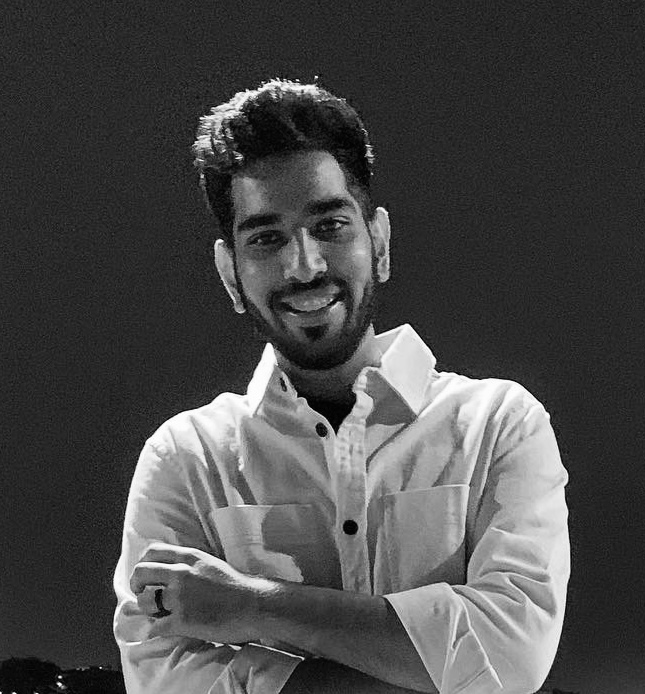
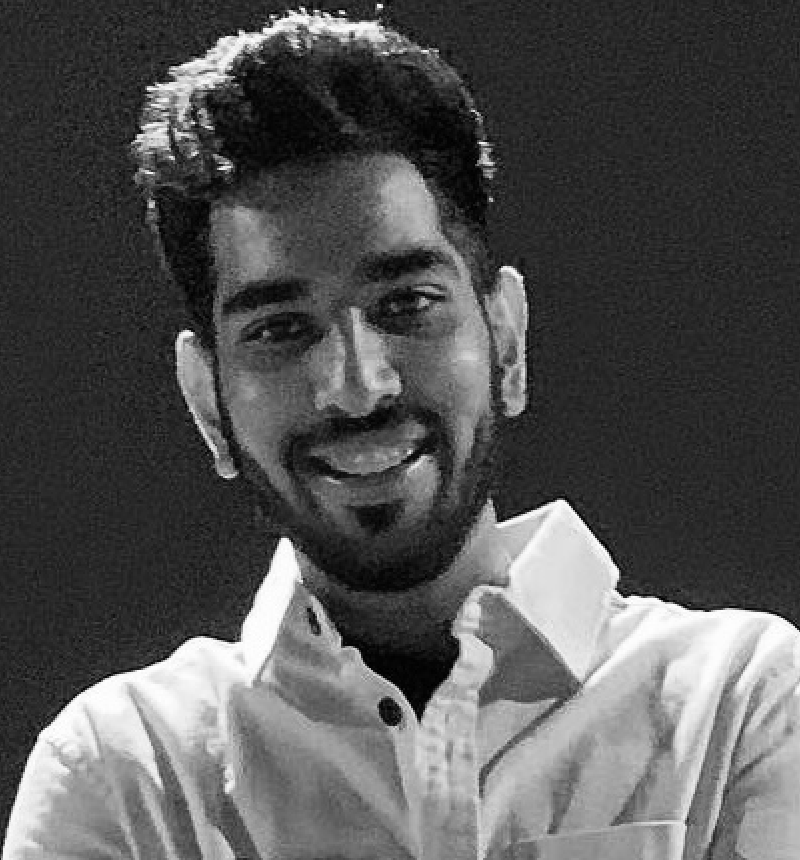
Stuck in the dimentions of the background image

diff --git a/main.py b/main.py
@@ -14,6 +14,8 @@ firebase_admin.initialize_app(cred, {
     'storageBucket':'realtimeattendancesystem-40b3a.appspot.com'
 })
 
+bucket = storage.bucket()
+
 cap = cv2.VideoCapture(0)
 cap.set(3, 640)
 cap.set(4, 480)
@@ -41,6 +43,7 @@ print("Encoding File Loaded")
 modeType = 0
 counter = 0
 id = -1
+imgStudent = []
 
 while True:
     success, img = cap.read()
@@ -57,15 +60,10 @@ while True:
     for encodeFace, faceLoc in zip(encodeCurFrame, faceCurFrame):
         matches = face_recognition.compare_faces(encodeListKnown, encodeFace)
         faceDis = face_recognition.face_distance(encodeListKnown, encodeFace)
-        # print("matches", matches)
-        # print("faceDis", faceDis)
 
         matchIndex = np.argmin(faceDis)
-        # print("Match Index", matchIndex)
-        # print(studentIds[matchIndex])
 
         if matches[matchIndex]:
-            # print("Known Face Detected")
             y1, x2, y2, x1 = faceLoc
             y1, x2, y2, x1 = y1*4, x2*4, y2*4, x1*4
             bbox = 55+x1, 162+y1, x2-x1, y2-y1
@@ -79,19 +77,28 @@ while True:
     if counter!=0:
 
         if counter ==1:
+            #Get the Data
             studentInfo = db.reference(f'Students/{id}').get()
             print(studentInfo)
+
+            #Get the image from the storage
+            blob = bucket.blob(f'/Users/anishsoni/Desktop/Github Clone Project/Face-Detection-Attendance-System/Images/{id}.png')
+            array = np.frombuffer(blob.download_as_string(), dtype=np.uint8)
+            imgStudent = cv2.imdecode(array, cv2.IMREAD_COLOR)
+
+
         
-        cv2.putText(imgBackground, str(studentInfo['Total Attendance']), (861,125),
-                    fontFace=cv2.FONT_HERSHEY_PLAIN, fontScale=2, color=(0,0,255), thickness=2)
-        cv2.putText(imgBackground, str(studentInfo['Name']), (808,445),
-                    fontFace=cv2.FONT_HERSHEY_COMPLEX, fontScale=2, color=(255,255,255), thickness=1)
-        cv2.putText(imgBackground, str(studentInfo['Major']), (1006,550),
-                    fontFace=cv2.FONT_HERSHEY_SIMPLEX, fontScale=1, color=(100,100,100), thickness=1)
-        cv2.putText(imgBackground, str(id), (1006,493),
-                    fontFace=cv2.FONT_HERSHEY_PLAIN, fontScale=2, color=(100,100,100), thickness=1)
-        cv2.putText(imgBackground, str(studentInfo['Year']), (1125,625),
-                    fontFace=cv2.FONT_HERSHEY_COMPLEX, fontScale=2, color=(100,100,100), thickness=1)
+        cv2.putText(imgBackground, str(studentInfo['Total Attendance']), (861,125),fontFace=cv2.FONT_HERSHEY_PLAIN, fontScale=2, color=(0,0,255), thickness=2)
+        cv2.putText(imgBackground, str(studentInfo['Major']), (1006,550),fontFace=cv2.FONT_HERSHEY_COMPLEX, fontScale=0.5, color=(100,100,100), thickness=1)
+        cv2.putText(imgBackground, str(id), (1006,493),fontFace=cv2.FONT_HERSHEY_COMPLEX, fontScale=0.5, color=(100,100,100), thickness=1)
+        cv2.putText(imgBackground, str(studentInfo['Year']), (1125,625),fontFace=cv2.FONT_HERSHEY_COMPLEX, fontScale=0.6, color=(100,100,100), thickness=1)
+
+        (w,h), _ = cv2.getTextSize(str(studentInfo['Name']), cv2.FONT_HERSHEY_COMPLEX, 1, 1)
+        offset = (414-w)//2
+        cv2.putText(imgBackground, str(studentInfo['Name']), (808+offset, 445), cv2.FONT_HERSHEY_COMPLEX, 1, (50,50,50), 1)
+
+        # imgBackground[44:44+633, 808:808+216] = cv2.resize(imgStudent, (216, 633))
+        imgBackground[44:44+633, 808:808+216] = cv2.resize(imgStudent, (216, 633))
 
         counter += 1
 

diff --git a/AddDataToDatabase.py b/AddDataToDatabase.py
@@ -16,8 +16,10 @@ data = {
             "Major": "Computer Science",
             "Year": "2021",
             "Roll no:": "21/189",
+            # "No_of_years": "3",
+            # "Standing": "G",
             "Total Attendance": "6",
-            "last_attendace_time" : "19/09/2023 12:00:00"
+            "last_attendace_time": "19/09/2023 12:00:00"
             },
 
         "richard":
@@ -25,9 +27,11 @@ data = {
             "Name": " Richard Branson",
             "Major": "Aviation",
             "Year": "2021",
+            # "No_of_years": "3",
+            # "Standing": "G",
             "Roll no:": "21/188",
             "Total Attendance": "8",
-            "last_attendace_time" : "19/09/2023 12:00:00"
+            "last_attendace_time": "19/09/2023 12:00:00"
             },
 
             "steve":
@@ -35,9 +39,11 @@ data = {
             "Name": "Steve Jobs",
             "Major": "Electronics & IT",
             "Year": "2021",
+            # "No_of_years": "3",
+            # "Standing": "G",
             "Roll no:": "21/190",
             "Total Attendance": "2",
-            "last_attendace_time" : "19/09/2023 12:00:00"
+            "last_attendace_time": "19/09/2023 12:00:00"
             },
             "12345":
         {
@@ -45,8 +51,10 @@ data = {
             "Major": "Rocket Science",
             "Year": "2021",
             "Roll no:": "21/192",
+            # "No_of_years": "3",
+            # "Standing": "G",
             "Total Attendance": "1",
-            "last_attendace_time" : "19/09/2023 12:00:00"
+            "last_attendace_time": "19/09/2023 12:00:00"
             }
             
         }
